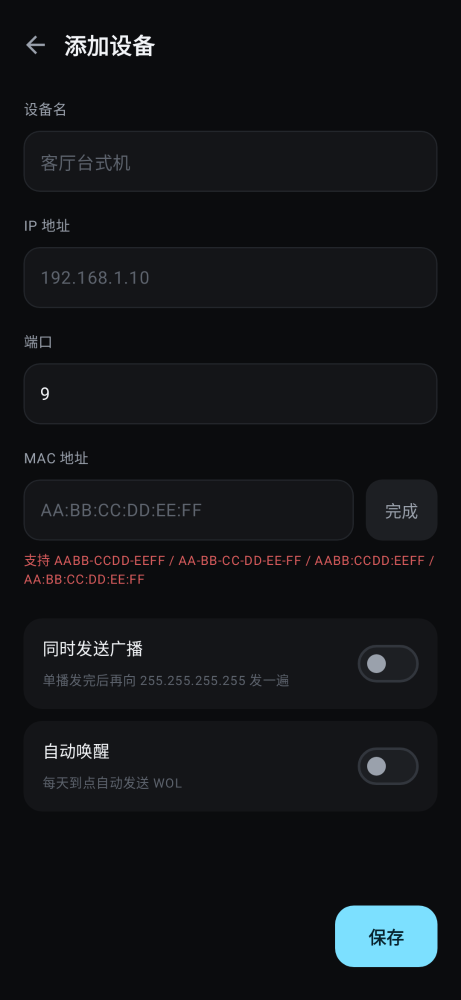
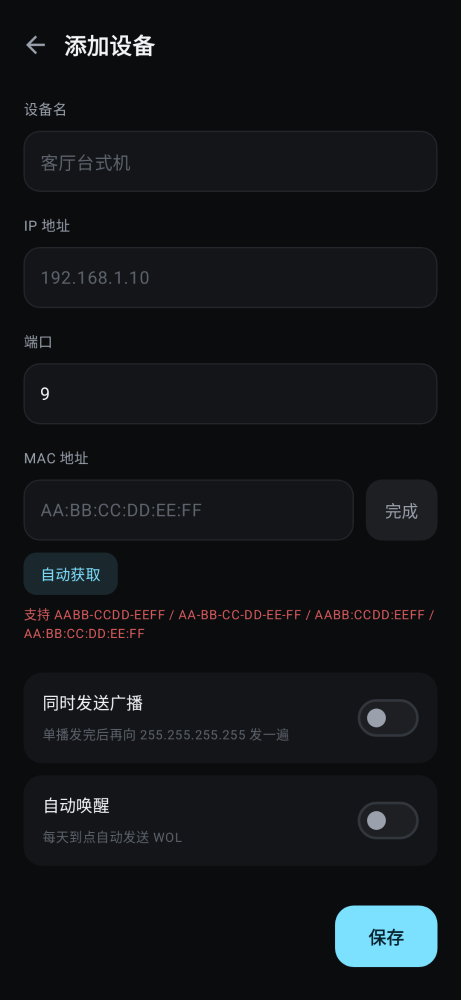
v1.0.6: MAC 支持从 ARP 表自动获取（先查表，miss 则 ping 触发后重查）

diff --git a/app/src/main/java/com/starchen/wol/ui/DeviceEditorScreen.kt b/app/src/main/java/com/starchen/wol/ui/DeviceEditorScreen.kt
@@ -37,6 +37,7 @@ import androidx.compose.runtime.Composable
 import androidx.compose.runtime.getValue
 import androidx.compose.runtime.mutableStateOf
 import androidx.compose.runtime.remember
+import androidx.compose.runtime.rememberCoroutineScope
 import androidx.compose.runtime.saveable.rememberSaveable
 import androidx.compose.runtime.setValue
 import androidx.compose.ui.Alignment
@@ -59,7 +60,10 @@ import com.starchen.wol.ui.theme.Surface2
 import com.starchen.wol.ui.theme.TextPrimary
 import com.starchen.wol.ui.theme.TextSecondary
 import com.starchen.wol.ui.theme.TextTertiary
+import com.starchen.wol.util.LogStore
+import com.starchen.wol.wol.ArpLookup
 import com.starchen.wol.wol.MacUtils
+import kotlinx.coroutines.launch
 
 @Composable
 fun DeviceEditorScreen(
@@ -77,7 +81,11 @@ fun DeviceEditorScreen(
     var minute by rememberSaveable { mutableStateOf(existing?.autoWakeMinute ?: 0) }
     var macTouched by remember { mutableStateOf(false) }
     var submitted by remember { mutableStateOf(false) }
+    var arpBusy by remember { mutableStateOf(false) }
+    var arpHint by remember { mutableStateOf<String?>(null) }
+    var arpHintOk by remember { mutableStateOf(false) }
     val context = androidx.compose.ui.platform.LocalContext.current
+    val scope = rememberCoroutineScope()
 
     val macValid = MacUtils.normalize(mac) != null
     val ipValid = isValidIpv4(ip.trim())
@@ -174,6 +182,62 @@ fun DeviceEditorScreen(
                             color = if (macValid) Accent else TextSecondary,
                             fontSize = 14.sp,
                             fontWeight = FontWeight.Medium
+                        )
+                    }
+                }
+                Spacer(Modifier.height(10.dp))
+                Row(verticalAlignment = Alignment.CenterVertically) {
+                    Box(
+                        modifier = Modifier
+                            .height(36.dp)
+                            .clip(RoundedCornerShape(11.dp))
+                            .background(if (arpBusy) Surface2 else Accent.copy(alpha = 0.13f))
+                            .clickable(enabled = !arpBusy) {
+                                val target = ip.trim()
+                                if (!isValidIpv4(target)) {
+                                    arpHintOk = false
+                                    arpHint = "先填一个正确的 IP"
+                                    return@clickable
+                                }
+                                arpBusy = true
+                                arpHint = null
+                                scope.launch {
+                                    val found = ArpLookup.resolve(target)
+                                    arpBusy = false
+                                    if (found != null) {
+                                        mac = found
+                                        macTouched = true
+                                        arpHintOk = true
+                                        arpHint = "已获取 $found"
+                                        LogStore.info(context, "ARP", "$target → $found")
+                                    } else {
+                                        arpHintOk = false
+                                        arpHint = if (ArpLookup.readable()) {
+                                            "没找到记录，设备可能不在线"
+                                        } else {
+                                            "系统不允许读 ARP 表，只能手填"
+                                        }
+                                        LogStore.warn(context, "ARP", "获取 $target 的 MAC 失败")
+                                    }
+                                }
+                            }
+                            .padding(horizontal = 14.dp),
+                        contentAlignment = Alignment.Center
+                    ) {
+                        Text(
+                            if (arpBusy) "获取中…" else "自动获取",
+                            color = if (arpBusy) TextTertiary else Accent,
+                            fontSize = 12.5.sp,
+                            fontWeight = FontWeight.Medium
+                        )
+                    }
+                    arpHint?.let { hint ->
+                        Spacer(Modifier.width(10.dp))
+                        Text(
+                            hint,
+                            color = if (arpHintOk) Accent.copy(alpha = 0.85f) else TextTertiary,
+                            fontSize = 11.sp,
+                            lineHeight = 15.sp
                         )
                     }
                 }

diff --git a/app/src/main/java/com/starchen/wol/wol/ArpLookup.kt b/app/src/main/java/com/starchen/wol/wol/ArpLookup.kt
@@ -1,0 +1,59 @@
+package com.starchen.wol.wol
+
+import kotlinx.coroutines.Dispatchers
+import kotlinx.coroutines.delay
+import kotlinx.coroutines.withContext
+import java.io.File
+import java.util.concurrent.TimeUnit
+
+/**
+ * 从内核 ARP 表里找某个 IP 对应的 MAC。
+ *
+ * 原理很简单：同网段的设备要通信，内核就会在 /proc/net/arp 里记下它的 MAC。
+ * 所以顺序是「先查表，查不到就 ping 一下逼内核发 ARP 请求，再查」。
+ *
+ * 注意：部分 Android 10+ 设备把 /proc/net/arp 也收紧了，读不到就返回 null，
+ * 这时候只能手填。不是所有机器都能用。
+ */
+object ArpLookup {
+
+    /** 只查表，不主动触发。返回规范化 MAC（AA:BB:CC:DD:EE:FF），没记录返回 null。 */
+    fun fromProc(ip: String): String? = runCatching {
+        val file = File("/proc/net/arp")
+        if (!file.canRead()) return@runCatching null
+        file.readLines().drop(1).firstNotNullOfOrNull { line ->
+            val parts = line.trim().split(' ').filter { it.isNotEmpty() }
+            if (parts.size >= 4 && parts[0] == ip) normalize(parts[3]) else null
+        }
+    }.getOrNull()
+
+    /** 先查表；没有就 ping 一次触发 ARP，再轮询最多 [timeoutMs]。 */
+    suspend fun resolve(ip: String, timeoutMs: Long = 4000): String? = withContext(Dispatchers.IO) {
+        fromProc(ip)?.let { return@withContext it }
+
+        runCatching {
+            val p = ProcessBuilder("ping", "-c", "1", "-W", "1", ip)
+                .redirectErrorStream(true)
+                .start()
+            p.waitFor(1500, TimeUnit.MILLISECONDS)
+            p.destroy()
+        }
+
+        val deadline = System.currentTimeMillis() + timeoutMs
+        while (System.currentTimeMillis() < deadline) {
+            fromProc(ip)?.let { return@withContext it }
+            delay(200)
+        }
+        null
+    }
+
+    /** 系统能不能读 ARP 表，用来给用户一句人话。 */
+    fun readable(): Boolean = runCatching { File("/proc/net/arp").canRead() }.getOrDefault(false)
+
+    private fun normalize(raw: String): String? {
+        if (raw == "00:00:00:00:00:00") return null
+        val hex = raw.lowercase().filter { it in '0'..'9' || it in 'a'..'f' }
+        if (hex.length != 12) return null
+        return hex.chunked(2).joinToString(":") { it.uppercase() }
+    }
+}

diff --git a/app/src/main/java/com/starchen/wol/ui/SettingsScreen.kt b/app/src/main/java/com/starchen/wol/ui/SettingsScreen.kt
@@ -209,7 +209,7 @@ fun SettingsScreen(
 
                 Spacer(Modifier.height(30.dp))
                 Text(
-                    "StarWOL 1.0.5",
+                    "StarWOL 1.0.6",
                     color = TextTertiary,
                     fontSize = 11.sp,
                     modifier = Modifier.fillMaxWidth(),

diff --git a/README.md b/README.md
@@ -5,6 +5,8 @@
 ## 功能
 
 - 设备卡片：右侧两个按钮分别唤醒和编辑，长按删除
+- MAC 支持 `AABB-CCDD-EEFF` / `AA-BB-CC-DD-EE-FF` / `AABB:CCDD:EEFF` / `AA:BB:CC:DD:EE:FF`，
+  也可以点「自动获取」从内核 ARP 表读（先填 IP，设备在同网段在线过才读得到）
 - 发送单播 magic packet 到 `IP:端口`，可选再向 `255.255.255.255` 广播一遍
 - 发出后探测目的 IP 的回包（UDP 监听 + ICMP ping + 常见端口探测）
 - 每天定时自动唤醒，滚轮选时间（24h 循环）
